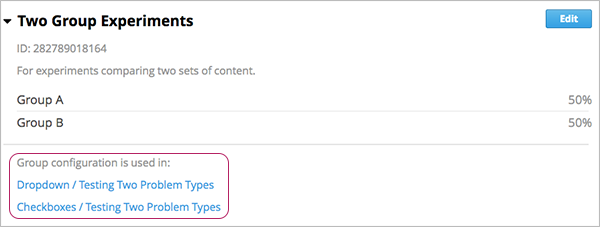
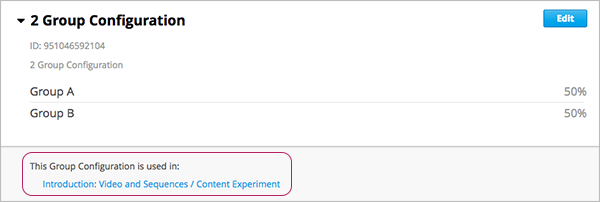
Added opening group config from experiment

diff --git a/docs/en_us/course_authors/source/content_experiments/content_experiments_configure.rst b/docs/en_us/course_authors/source/content_experiments/content_experiments_configure.rst
@@ -44,8 +44,7 @@ To enable content experiments in your course, you add ``split_test`` to the
        "split_test"
      ]
 
-#. At the bottom of the page, click **Save Changes**.
-
+Your changes are automatically saved.
 
 .. _Overview of Group Configurations:
 
@@ -143,7 +142,7 @@ You can create a group configurations at any time.
   * Click **Add another group** to include another group as part of the
     configuration.
   * Click the **X** to the right of an existing group to remove it from the
-    configuration. Note that the configuration must have at least two groups.
+    configuration.
 
 5. Click **Create** to save the new group configuration.
    
@@ -178,7 +177,7 @@ You can change the group configuration name at any time.
 
 #. Modify the name and description as needed.
 #. Modify groups in the configuration as needed. See `Create a Group
-   Configuration` for details.
+   Configuration`_ for details.
    
 4. Click **Save** to save your changes.
 
@@ -218,6 +217,35 @@ links to experiments that use the group configuration:
  :alt: A Group Configuration with the experiments using it circled
 
 Click a link to go to the unit page that contains the experiment.
+
+===============================================
+View a Group Configuration from an Experiment
+===============================================
+
+When working with a content experiment, you can view details about the group
+configuration used by that experiment.
+
+In the content experiment in the unit page, click the name of the group
+configuration.
+
+.. image:: ../Images/content_experiment_group_config_link.png
+ :alt: Content experiment in the unit page with the group configuration link
+     circled
+
+Or at the top of the content experiment page, click the name of the group
+configuration
+
+.. image:: ../Images/content_experiment_page_group_config_link.png
+ :alt: Content experiment page with the group configuration link circled
+
+In both cases, the group configuration opens:
+
+.. image:: ../Images/group_configurations_experiments.png
+ :alt: A Group Configuration with the experiments using it circled
+
+You can use the link in the group configuration to return to the unit that
+contains the content experiment.
+
 
 .. _Guidelines for Modifying Group Configurations:
 

diff --git a/docs/en_us/course_authors/source/content_experiments/content_experiments_add.rst b/docs/en_us/course_authors/source/content_experiments/content_experiments_add.rst
@@ -34,15 +34,15 @@ To configure a content experiment in Studio, you:
 #. `Create the content experiment`_.
 #. `Create content for groups in the content experiment`_.
    
-After you configure a content experiment, if necessary you can `change the group configuration <Change the
-Group Configuration for a Content Experiment>`_.   
+After you configure a content experiment, if necessary you can `change the
+group configuration <Change the Group Configuration for a Content
+Experiment>`_.
 
 ===============================
 Create the Content Experiment
 ===============================
 
-#. In a private or draft unit page, under **Add New Component**, click
-   **Advanced**.
+#. In unit page, under **Add New Component**, click **Advanced**.
 
 #. Select **Content Experiment**.
    
